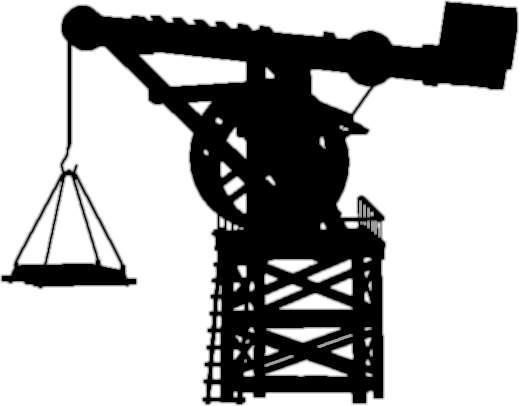
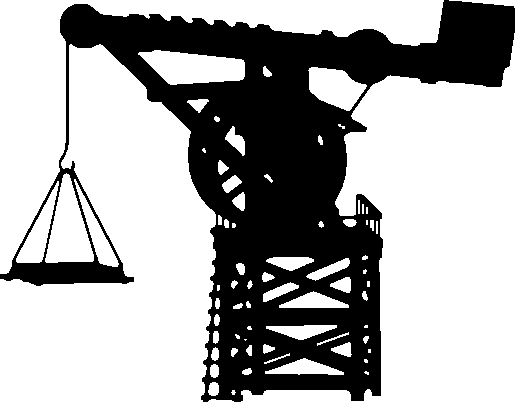
fixed 'out-of-bounds' airship turn, now texture edges aren't smooth

diff --git a/client/js/noiseBG.js b/client/js/noiseBG.js
@@ -1,3 +1,4 @@
+/* eslint-disable no-use-before-define */
 /* eslint-disable space-infix-ops */
 /* eslint-disable no-mixed-operators */
 /* eslint-disable import/no-unresolved */
@@ -16,6 +17,7 @@ import { WEBGL } from 'three/examples/jsm/WebGL';
 import {
   EffectComposer, RenderPass, EffectPass, DepthOfFieldEffect, ShaderPass,
 } from 'postprocessing';
+import { FXAAShader } from 'three/examples/jsm/shaders/FXAAShader';
 import { GUI } from 'three/examples/jsm/libs/dat.gui.module';
 // shaders
 import * as noiseBG from './shaders/noiseBG';
@@ -30,6 +32,7 @@ import ballons1Texture from '../images/ballons1_.png';
 import ballons3Texture from '../images/ballons3_.png';
 import fogTexture from '../images/fog_.png';
 import cargoCraneTexture from '../images/cargo_crane_.png';
+import exhaust1Texture from '../images/exhaust1_.png';
 
 // --------------------------------------------------------------------------------- Constants
 const clock = new Clock();
@@ -72,6 +75,16 @@ const airshipOptions = {
   speedRange: new Vector2(10.0, 75.0),
   size: 20.0,
 };
+const getVisiblePlane = (() => {
+  const data = {};
+  return (z) => {
+    if (data[z]) return data[z];
+    const h = z * Math.tan(main_camera.fov * 0.5 * Math.PI / 180);
+    const w = h * main_camera.aspect;
+    data[z] = { w, h };
+    return data[z];
+  };
+})();
 // --------------------------------------------------------------------------------- Constants
 
 // --------------------------------------------------------------------------------- Uniforms
@@ -110,12 +123,6 @@ function getFullScreenCorners() {
     window.innerHeight * 0.5,
     -window.innerHeight * 0.5,
   ];
-}
-
-function getVisiblePlane(z) {
-  const h = z * Math.tan(main_camera.fov * 0.5 * Math.PI / 180);
-  const w = h * main_camera.aspect;
-  return { w, h };
 }
 
 function getRandomRange(vec) {
@@ -209,13 +216,13 @@ function quadGeometry() {
 
 async function fogParticles(texturePath) {
   const geometry = quadGeometry();
-  const count = 10;
+  const count = 20;
   const angleRange = new Vector2(-Math.PI * 0.05, Math.PI * 0.05);
-  const speedRange = new Vector2(4.0, 8.0);
+  const speedRange = new Vector2(10.0, 40.0);
   const aSpeedRange = new Vector2(0.0, 0.5);
   const texture = await setupTexture(texturePath, ClampToEdgeWrapping, ClampToEdgeWrapping);
   const texAspect = texture.image.width / texture.image.height;
-  const scaleRange = new Vector2(1.0, 5.0);
+  const scaleRange = new Vector2(5.0, 20.0);
   // x - angle, y - velocity, z - angular velocity w - life time
   const movement = new InstancedBufferAttribute(new Float32Array(count * 3), 3);
   const scale = new InstancedBufferAttribute(new Float32Array(count * 2), 2);
@@ -252,7 +259,7 @@ async function airshipParticles(texturePath, options = airshipOptions) {
   const {
     count, nearOffset, farOffset, offsetMult, speedRange, size,
   } = options;
-  const texture = await setupTexture(texturePath, RepeatWrapping, RepeatWrapping);
+  const texture = await setupTexture(texturePath, ClampToEdgeWrapping, ClampToEdgeWrapping);
   const imgAspect = texture.image.width / texture.image.height;
 
   const scale = Array(4).fill(null).reduce((acc) => {
@@ -275,7 +282,7 @@ async function airshipParticles(texturePath, options = airshipOptions) {
     const velocity = getRandomRange(speedRange);
     randomVector.x += zPlane.w * 1.5 * direction;
 
-    offsetWithVel.array[i * 4 + 0] = randomVector.x;
+    offsetWithVel.array[i * 4 + 0] = randomVector.x + size * Math.sign(randomVector.x);
     offsetWithVel.array[i * 4 + 1] = randomVector.y;
     offsetWithVel.array[i * 4 + 2] = -randomVector.z - nearOffset;
     offsetWithVel.array[i * 4 + 3] = velocity;
@@ -316,7 +323,7 @@ async function init() {
 
   renderer = new WebGLRenderer({
     canvas: document.getElementById('noiseBG'),
-    antialias: true,
+    antialias: false,
   });
 
   renderer.setSize(window.innerWidth, window.innerHeight);
@@ -411,24 +418,33 @@ async function init() {
     speedRange: new Vector2(10.0, 20.0),
   });
   shipGroup.add(shipMesh1, shipMesh2, shipMesh3);
-  // const fogMesh = await fogParticles(fogTexture);
-  // fogMesh.position.z = -50;
-  // fogMesh.position.y = -100;
-  // postScene.add(shipMesh, fogMesh);
 
   const bottomSprites = new Group();
   bottomSprites.position.y = cameraMaxScrollY;
 
-  const ccDepth = 500;
+  const ccDepth = 200;
   const ccPlane = getVisiblePlane(ccDepth);
   const cargoCrane = await imageSizeSprite(cargoCraneTexture, new Vector2(-0.5, 0.5));
+  cargoCrane.scale.multiplyScalar(0.3);
   cargoCrane.position.x = ccPlane.w;
   cargoCrane.position.y = -ccPlane.h;
   cargoCrane.position.z = -ccDepth;
 
-  bottomSprites.add(cargoCrane);
+  const exh1Depth = 1000;
+  const exh1Plane = getVisiblePlane(exh1Depth);
+  const exh1 = await imageSizeSprite(exhaust1Texture, new Vector2(0.0, 0.5));
+  exh1.position.x = -200;
+  exh1.position.y = -exh1Plane.h;
+  exh1.position.z = -exh1Depth;
 
-  postScene.add(finalQuad, bottomSprites, shipGroup);
+  const fogMesh = await fogParticles(fogTexture);
+  fogMesh.position.x = -200;
+  fogMesh.position.y = -1050;
+  fogMesh.position.z = -1000;
+
+  bottomSprites.add(cargoCrane, exh1);
+
+  postScene.add(finalQuad, bottomSprites, shipGroup, fogMesh);
   // --------------------------------------------------------------------------------- Post render
 
   composer = new EffectComposer(renderer);
@@ -439,8 +455,8 @@ async function init() {
     focalLength: dofProps.focalLength,
     bokehScale: dofProps.bokehScale.d,
   });
-
   const effectPass = new EffectPass(main_camera, dofEffect);
+
   const filmShader = new ShaderMaterial({
     uniforms: {
       ...film.uniforms,
@@ -453,9 +469,13 @@ async function init() {
     vertexShader: film.vertexShader,
   });
   const filmPass = new ShaderPass(filmShader, 'tDiffuse');
+  const fxaaShader = new ShaderMaterial(FXAAShader);
+
+  const fxaaPass = new ShaderPass(fxaaShader, 'tDiffuse');
 
   composer.addPass(renderPass);
   composer.addPass(effectPass);
+  composer.addPass(fxaaPass);
   composer.addPass(filmPass);
 
   // why it isn't possible to do in the constructor?
